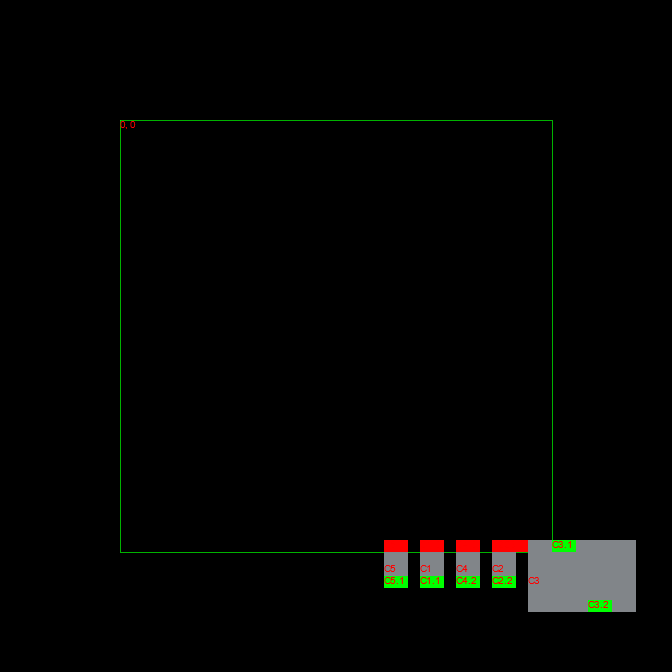
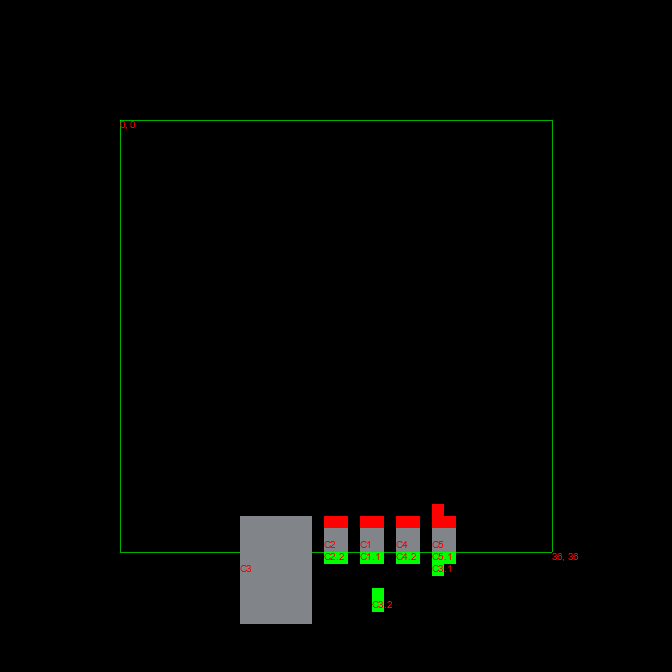
add better testing

Changed region(s): [[0.3438, 0.75, 0.9688, 0.9375]]

diff --git a/pcb-layout/src/main.rs b/pcb-layout/src/main.rs
@@ -4,7 +4,7 @@ use num::ToPrimitive;
 use plcmnt::{hpwl, is_valid, Bbox, Component, Placement, Pin, placement_area};
 use rand::{prelude::*, seq::index::IndexVecIntoIter};
 use plotters::prelude::*;
-
+use colored::Colorize;
 fn random_rotation() -> i32 {
     // Get an RNG:
     let mut rng = rand::rng();
@@ -299,55 +299,59 @@ fn main() -> Result<(), Box<dyn std::error::Error>>{
         components: comps,
         placement_area: placement_area,
     };
-    let mut population: Vec<Individual> = Vec::new();
-    let pop_size = 100;
-    for i in 0..pop_size{
-        let pl_2 = pl.clone();
-        let mut id2 = Individual::new(pl_2);
-        population.push(id2);
+    let test_cases: Vec<(usize, i32)> = vec![(10, 10000), (20, 5000), (50,2000), (100,1000)];
+    for i in test_cases{
 
-    }
+        let mut population: Vec<Individual> = Vec::new();
+        let pop_size = i.0;
+        for _ in 0..pop_size{
+            let pl_2 = pl.clone();
+            let  id2 = Individual::new(pl_2);
+            population.push(id2);
+
+        }
 
     
     
-    // And if we want SVG backend
-    // let backend = SVGBackend::new("output.svg", (800, 600));
-    //backend.draw_rect((50, 50), (200, 150), &RED, true)?;
-    let mut id = &mut population[0];
-    id.plot("0.png");
+        // And if we want SVG backend
+        // let backend = SVGBackend::new("output.svg", (800, 600));
+        //backend.draw_rect((50, 50), (200, 150), &RED, true)?;
+        let mut id = &mut population[0];
+        id.plot("0.png");
     
-    //println!("{}", id.score());
-    //id.swap(1, 3);
-    //id.rotate(1, 90);
-    for _ in 0..1000 {
-        for ind in &mut population{
-            ind.mutate();
+        println!("Original Score: {}", id.score());
+        //id.swap(1, 3);
+        //id.rotate(1, 90);
+        for _ in 0..i.1 {
+            for ind in &mut population{
+                ind.mutate();
+            }
+            for i in (0..pop_size).step_by(2){
+                let parent_a: & Individual = &population[i];
+                let parent_b: & Individual = &population[i + 1];
+                let mut child_a: Individual =  parent_a.crossover(parent_b);
+                let mut child_b: Individual =  parent_b.crossover(parent_a);
+                population.push(child_a);
+                population.push(child_b);
+            }
+            population.sort_by(|a: &Individual, b: &Individual| { 
+                let a_s = (a.score()).clone();
+                let b_s = (b.score()).clone();
+                a_s.cmp(&b_s)}
+            );
+            population.truncate(pop_size);
         }
-        for i in (0..pop_size).step_by(2){
-            let parent_a: & Individual = &population[i];
-            let parent_b: & Individual = &population[i + 1];
-            let mut child_a: Individual =  parent_a.crossover(parent_b);
-            let mut child_b: Individual =  parent_b.crossover(parent_a);
-            population.push(child_a);
-            population.push(child_b);
-        }
-        population.sort_by(|a: &Individual, b: &Individual| { 
-            let a_s = (a.score()).clone();
-            let b_s = (b.score()).clone();
-            a_s.cmp(&b_s)}
-        );
-        population.truncate(pop_size);
+        /*
+        */
+        let mut id = &mut population[0];
+        //let mut id2 = &mut population[1];
+        //println!("{}",(c1.string()))
+        //println!("{:?}", id.comp_list);
+        println!("New Score: {}", id.score());
+        //println!("{}", is_valid(&id.comp_list));
+    
+        id.plot("1.png");
     }
-    /*
-    */
-    let mut id = &mut population[0];
-    //let mut id2 = &mut population[1];
-    //println!("{}",(c1.string()))
-    println!("{:?}", id.comp_list);
-    println!("{}", id.score());
-    println!("{}", is_valid(&id.comp_list));
-    
-    id.plot("1.png");
     
     Ok(())
 }
